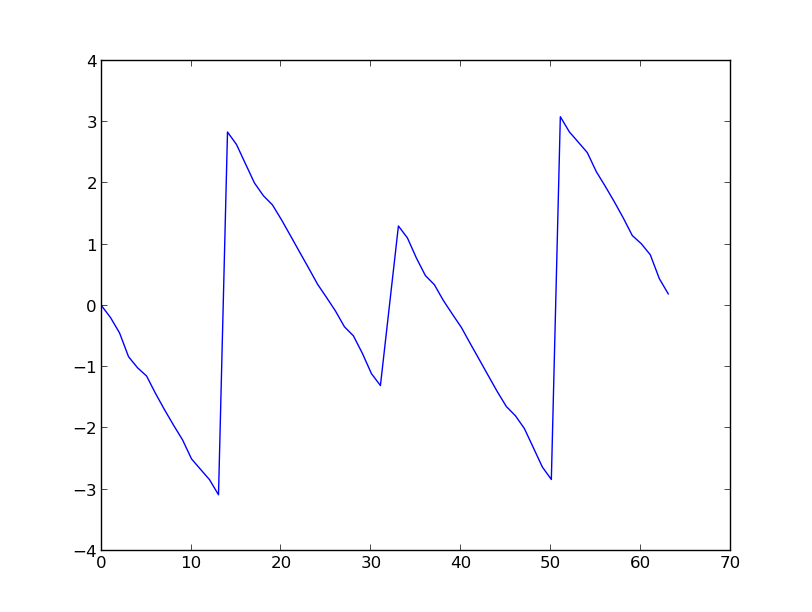
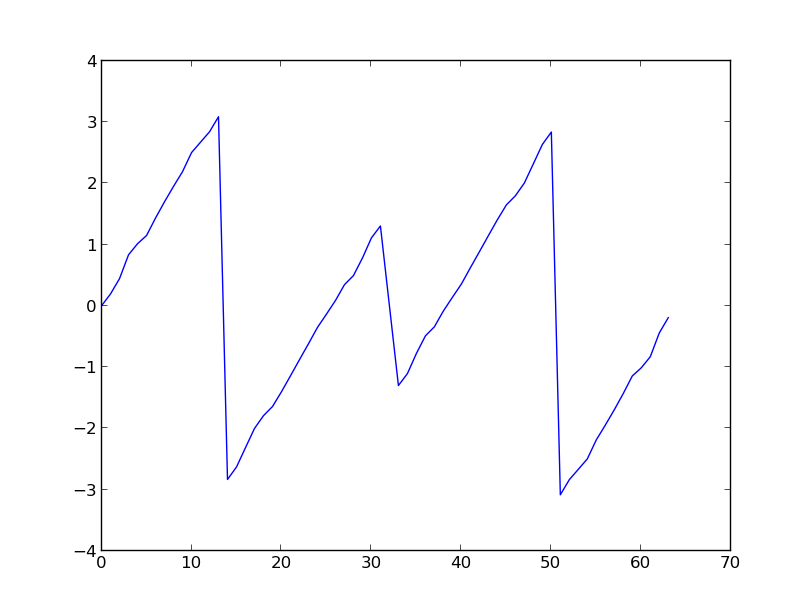
fix

diff --git a/cros2.py b/cros2.py
@@ -60,8 +60,8 @@ for i in fn:
 N = len(xdata)
 M = N / WinWidth
 for j in range(M):
-	x = xdata[start:WinWidth+start]
-	z = zdata[start:WinWidth+start]
+	z = xdata[start:WinWidth+start]
+	x = zdata[start:WinWidth+start]
 	X.append(dft(x))
 	Z.append(dft(z))
 	#x = xdata[start:WinWidth+start]
@@ -91,9 +91,6 @@ for r in range(NN -1):
     alp = (theta[r+1] - theta[r])
     tah.append( alp * N/2*np.pi)
 #h = ift(H)
-subplot(211)
 plot(theta)
-subplot(212)
-plot(WxzH)
 show()
 

diff --git a/kadai7.py b/kadai7.py
@@ -31,16 +31,18 @@ xd = sg.fir(h,xdata)
 yd = sg.fir(h,ydata)
 Xd = sg.dft(xd)
 r2 = sg.correl(xd,yd)
-subplot(311)
+#subplot(311)
 
 plot(range(-1023,len(r1)/2 +1),r1)
 plt.xlim([-1023,1024])
 #xticks(numpy.linspace(0,2500,6),numpy.linspace(-1024,2500-1048,6))
+"""
 subplot(312)
 plot(range(-1023,len(r2)/2 +1),r2)
 plt.xlim([-1023,1024])
 subplot(313)
 plot(h)
+"""
 #title(r"test",fontsize = 25,fontname="serif")
 show()
 
